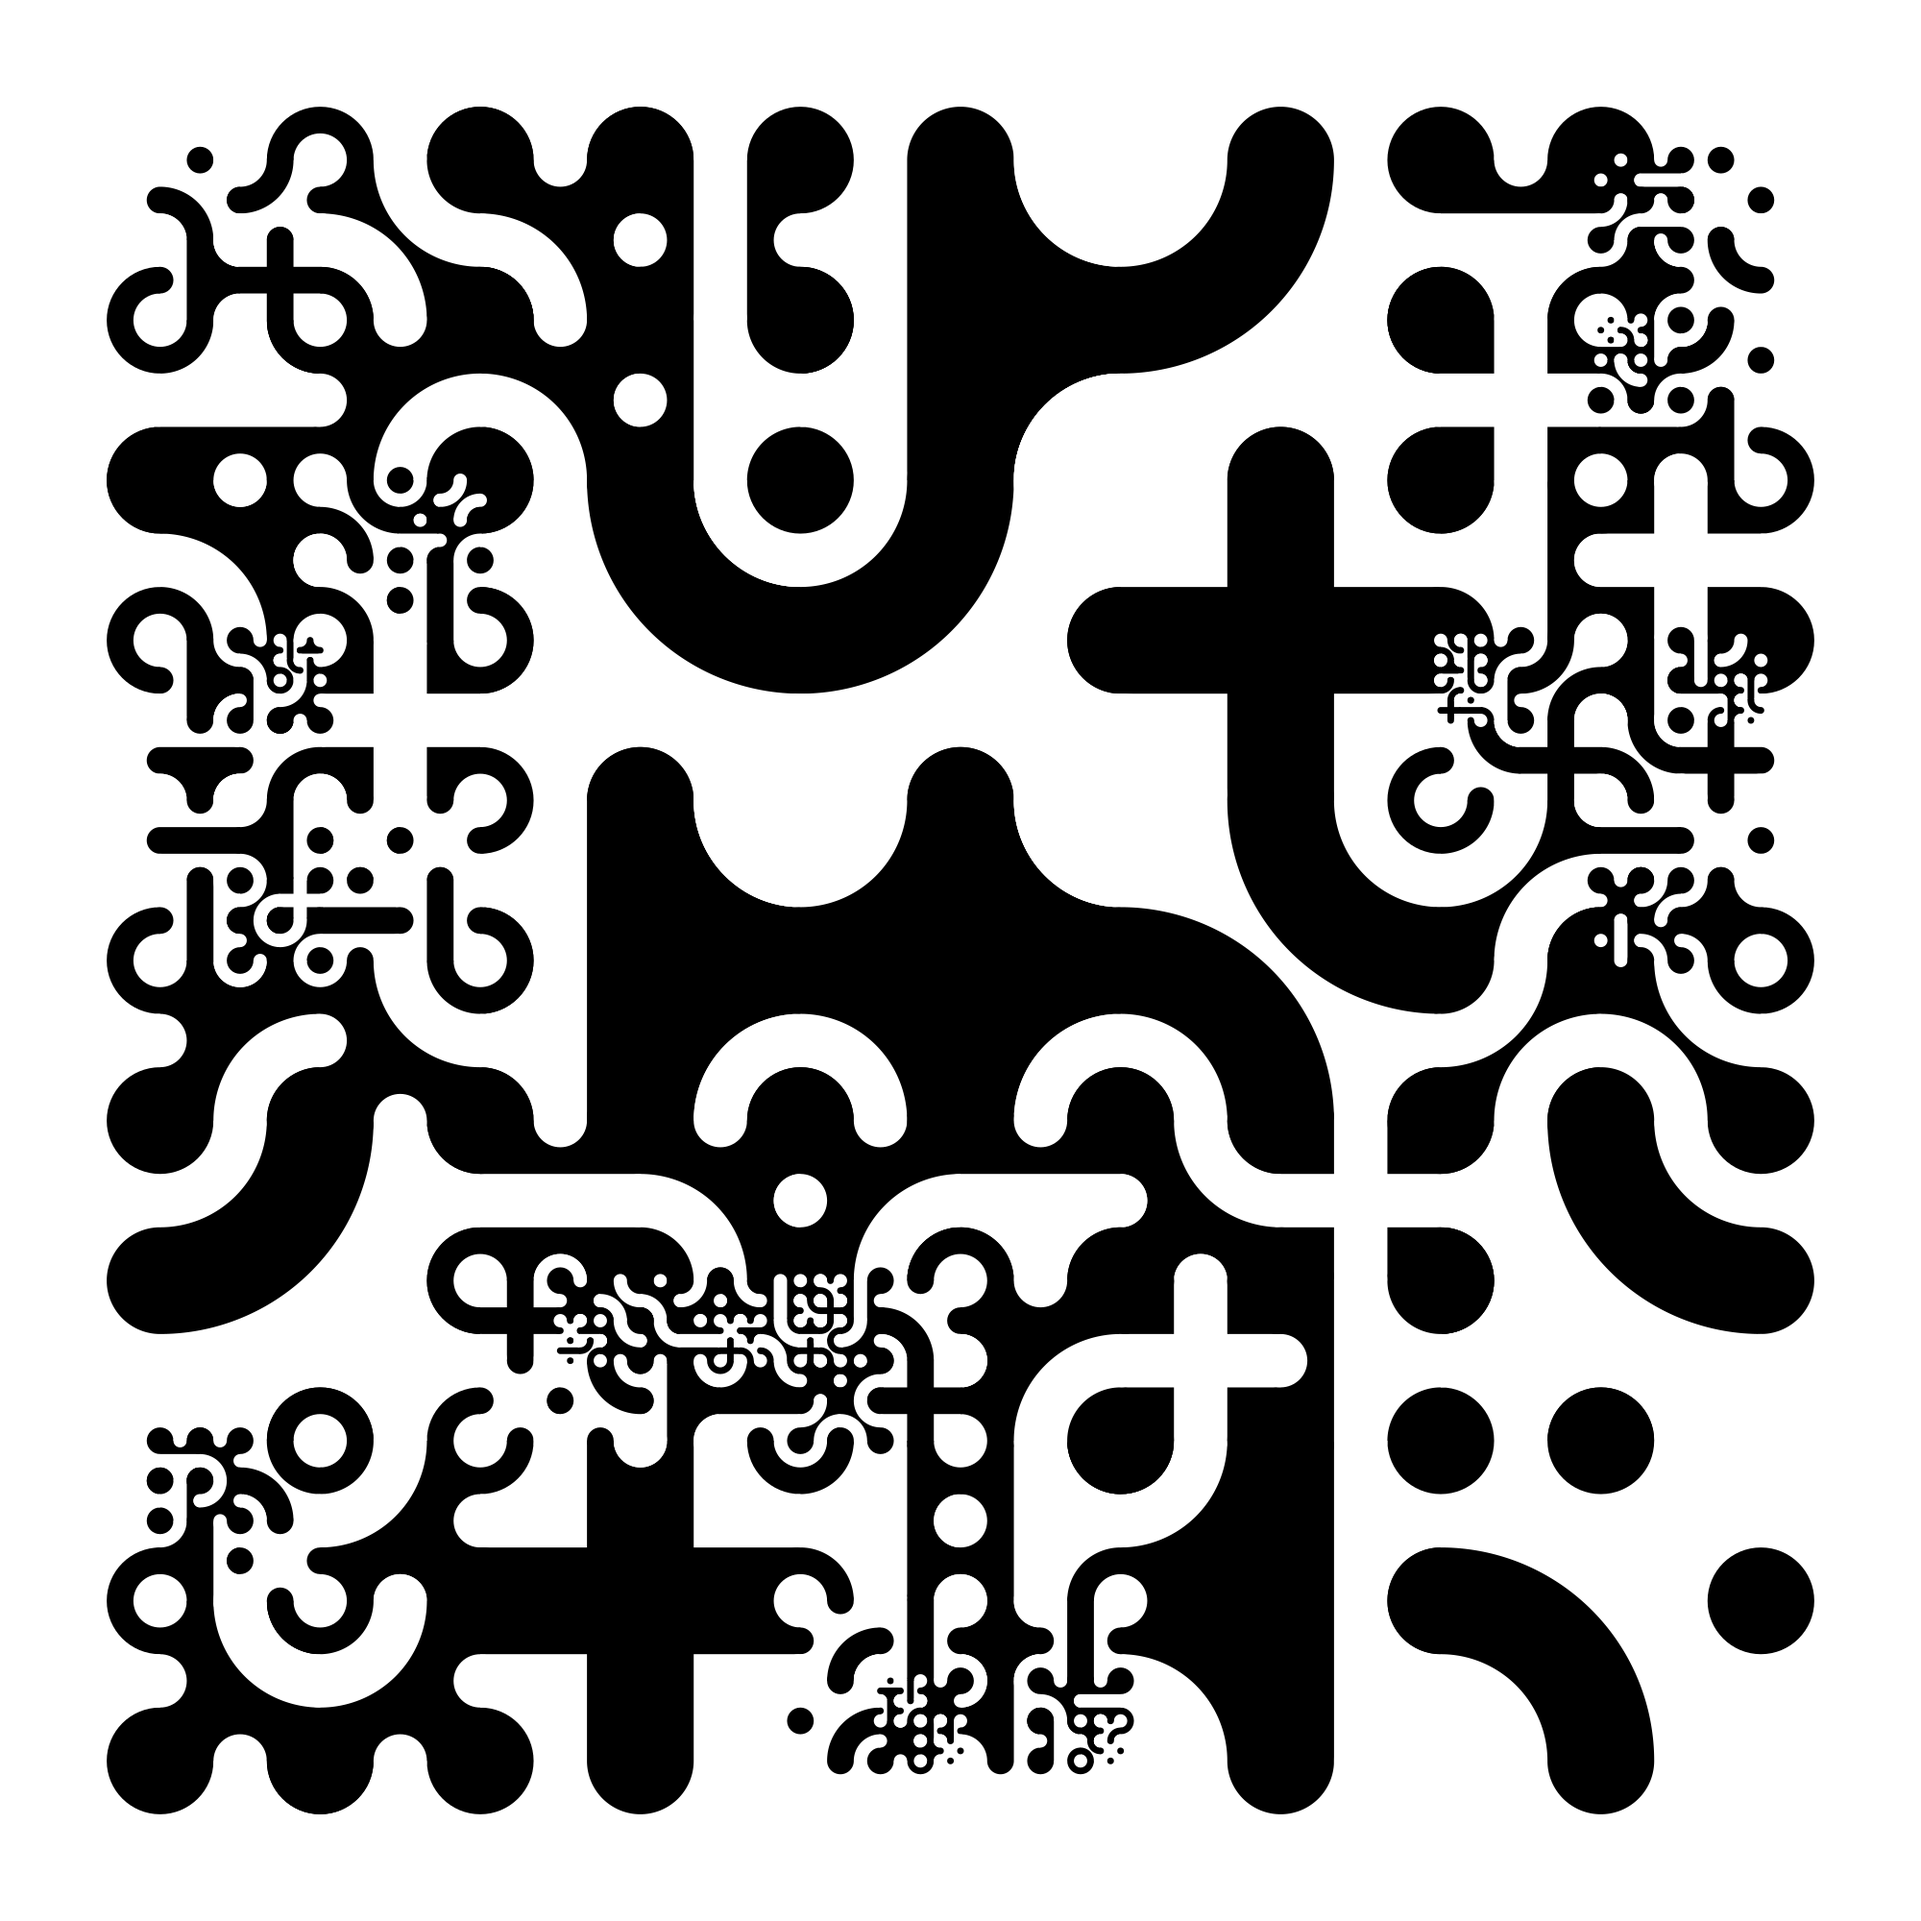
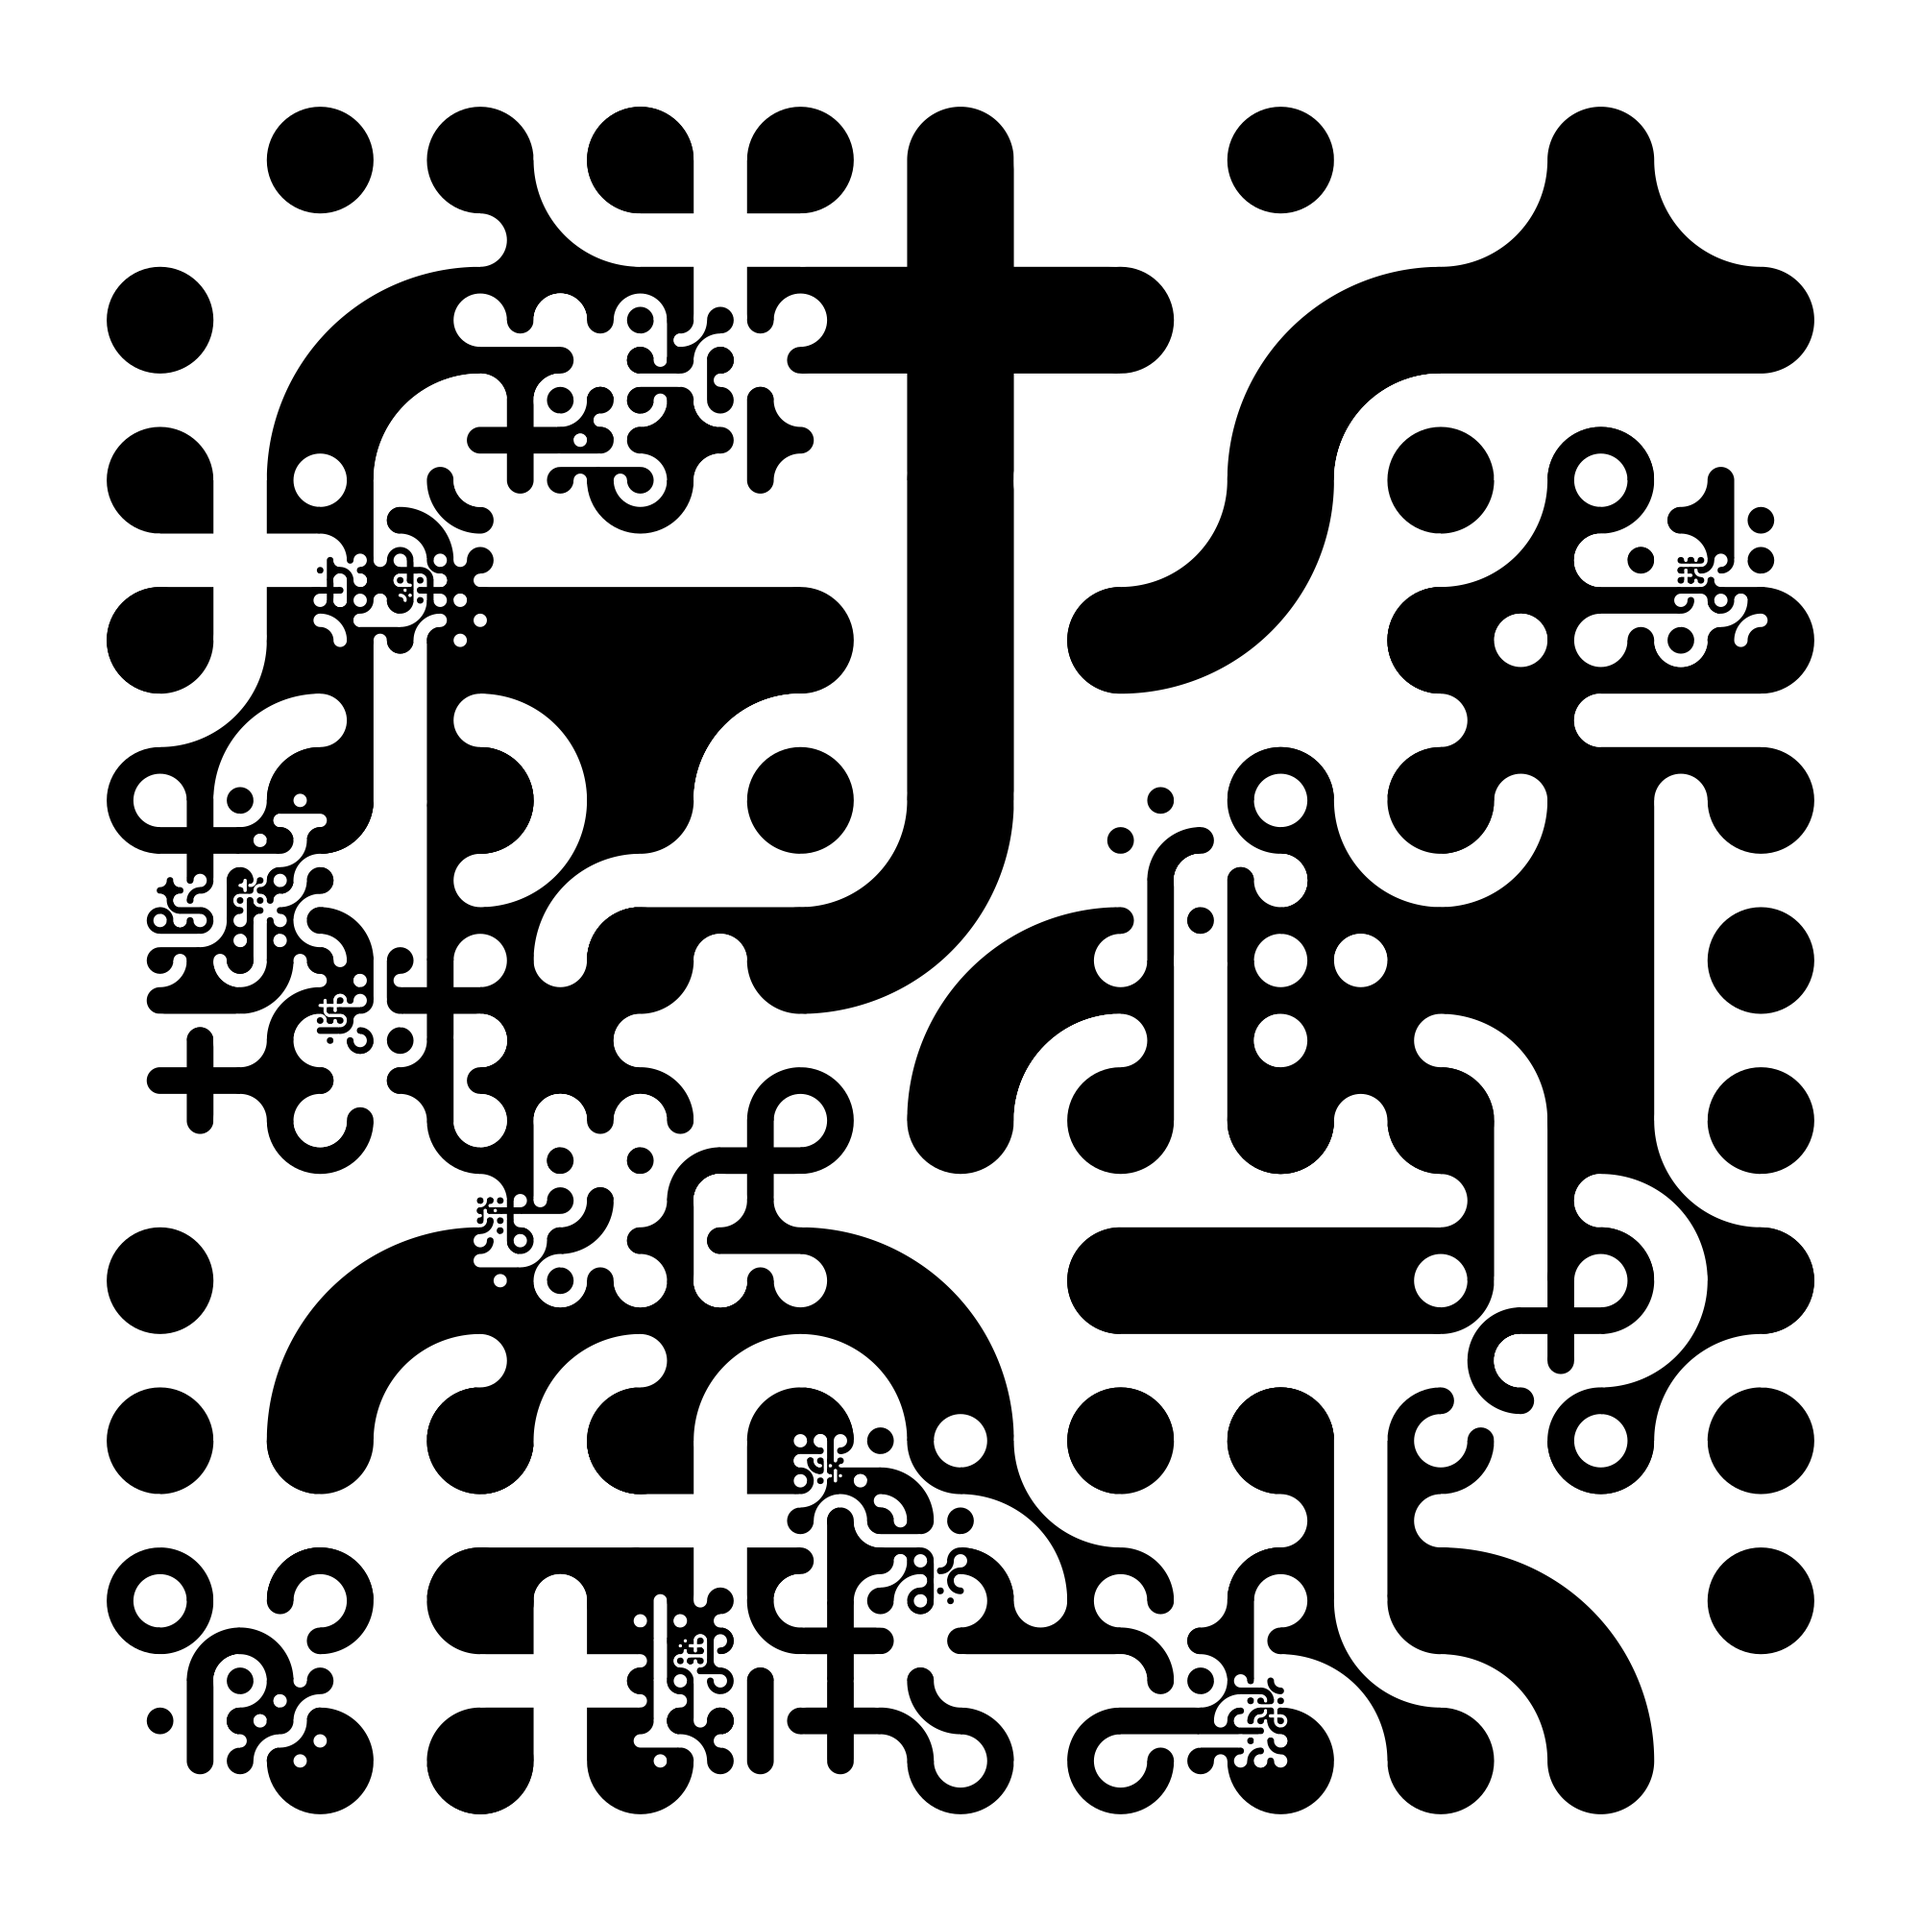
update

diff --git a/truchet.py b/truchet.py
@@ -101,7 +101,7 @@ def draw_truchet(frame_positions, col, row, max_depth, colors):
                      write_to='truchet.png', scale=2000 / dwg['width'])
 
 
-def main(col=5, row=5, max_depth=4, colors=('white', 'black')):
+def main(col=5, row=5, max_depth=5, colors=('white', 'black')):
     frame_positions = decide_frame_position(col, row, max_depth)
     draw_frame(frame_positions, col, row, max_depth)
     draw_truchet(frame_positions, col, row, max_depth, colors)

diff --git a/README.md b/README.md
@@ -1,6 +1,10 @@
 # Multiscale-Truchet-Python
 Create Multiscale Truchet Patterns in Python
 
+# About "Multiscale Truchet Patterns"
+https://christophercarlson.com/portfolio/multi-scale-truchet-patterns/
+
+<img src="tiles.png" width="50%">
 <img src="frame.png" width="50%">
 ↓
 <img src="truchet.png" width="50%">
